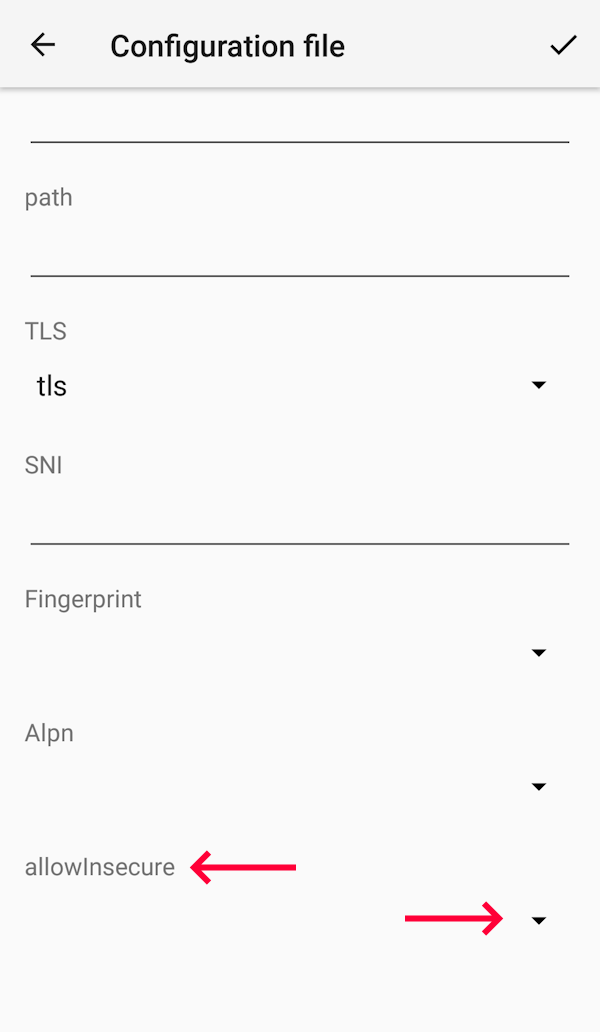
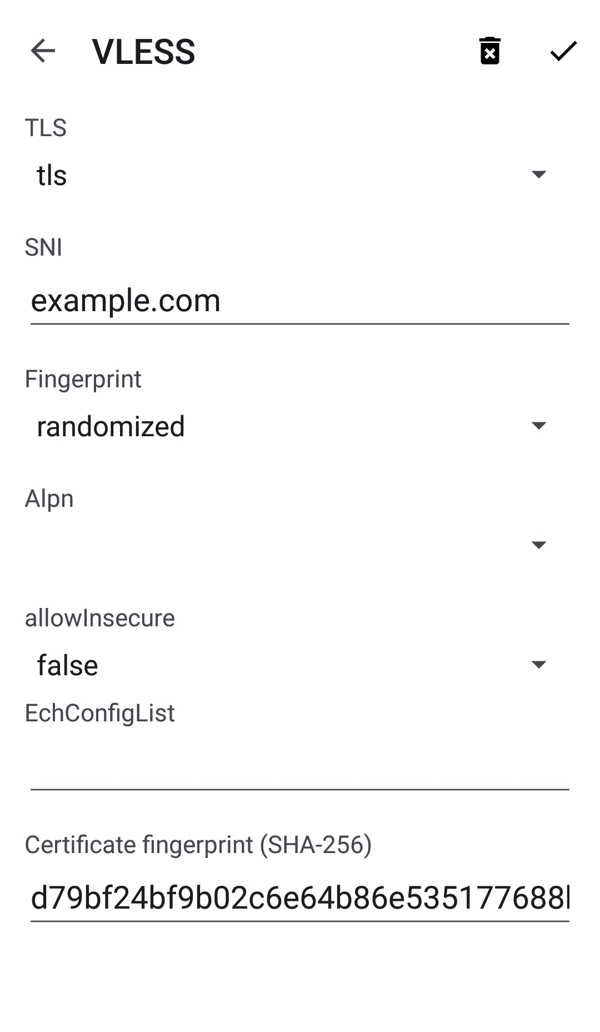
Update the instructions regarding a self-signed certificate
Fix #3

diff --git a/README.md b/README.md
@@ -152,6 +152,8 @@ Additional clients can be added in the same way.
 
 You need to generate the TLS certificate. It will be used to establish an encrypted connection between client and server. There are two ways to do it. You can generate a self-signed certificate, this way you don't need a domain attached to your server. Alternatively, you can obtain a certificate from Let's Encrypt for your domain.
 
+<a name="self_signed_cert"></a>
+
 <details>
 
 <summary>Generate a self-signed certificate.</summary>
@@ -159,13 +161,13 @@ You need to generate the TLS certificate. It will be used to establish an encryp
 Run the following command:
 
 ```bash
-sudo /usr/local/xray/xray tls cert -file /usr/local/etc/xray/my > /dev/null
+sudo /usr/local/xray/xray tls cert -file /usr/local/etc/xray/my -expire 87600h > /dev/null
 ```
 
 Two files will be created:
 
-* `/usr/local/etc/xray/my_cert.pem` is your self-signed certificate.
-* `/usr/local/etc/xray/my_key.pem` is your private key.
+* `/usr/local/etc/xray/my.crt` is your self-signed certificate.
+* `/usr/local/etc/xray/my.key` is your private key.
 
 Now you need to create a JSON object for the certificate and add it to your Xray server configuration.
 
@@ -173,8 +175,8 @@ The certificate object will look like this:
 
 ```json
 {
-    "certificateFile": "/usr/local/etc/xray/my_cert.pem",
-    "keyFile": "/usr/local/etc/xray/my_key.pem"
+    "certificateFile": "/usr/local/etc/xray/my.crt",
+    "keyFile": "/usr/local/etc/xray/my.key"
 }
 ```
 
@@ -208,8 +210,8 @@ Put it into the `inbounds[].streamSettings.tlsSettings.certificates` array in th
                 "tlsSettings": {
                     "certificates": [
                         {
-                            "certificateFile": "/usr/local/etc/xray/my_cert.pem",
-                            "keyFile": "/usr/local/etc/xray/my_key.pem"
+                            "certificateFile": "/usr/local/etc/xray/my.crt",
+                            "keyFile": "/usr/local/etc/xray/my.key"
                         }
                     ]
                 }
@@ -429,11 +431,17 @@ Install [v2rayNG](https://play.google.com/store/apps/details?id=com.v2ray.ang) o
 
    ![](images/xray-android-v2rayng-6.png)
 
-5. If you're using a **self-signed certificate**, open the _allowInsecure_ menu and select _true_.
+5. If you're using a **self-signed certificate**, further configuration of TLS is needed. Skip this step otherwise.
+
+   * Fill in _SNI_ with any domain that is whitelisted in your region.
+
+   * Open the _Fingerprint_ menu and select _randomized_ or another value that works for you.
+
+   * Open the _allowInsecure_ menu and select _false_.
+
+   * Set _Certificate fingerprint (SHA-256)_ to the SHA-256 hash of your self-signed certificate. See [SOCKS proxy configuration](#socks_self_signed) for instructions on how to calculate it.
 
    ![](images/xray-android-v2rayng-7.png)
-
-   ![](images/xray-android-v2rayng-8.png)
 
 6. Save your configuration:
 
@@ -490,13 +498,12 @@ Alternatively, you can configure Xray to work like VPN to route all your traffic
 To configure your Xray client as a SOCKS proxy, use the following configuration.
 
 * Replace `example.com` with your domain.
-
-  If you're using a **self-signed certificate**, replace `example.com` with your server IP. Additionally set `"allowInsecure": true`.
 * Replace `id` with your client `id` from the [server configuration](#step-2---server-configuration).
 * `443` is the port on which the Xray server listens. It's the same port that is used in the [server configuration](#step-2---server-configuration).
 * `1080` is the port on which the local SOCKS proxy server listens. It will accept connections from your apps that are configured to use it.
 
   Apps that want to use the SOCKS proxy need to set `127.0.0.1` as a host, and `1080` as a port.
+* Tweak the `fingerprint` parameter as needed.
 
 ```json
 {
@@ -518,31 +525,85 @@ To configure your Xray client as a SOCKS proxy, use the following configuration.
         {
             "protocol": "vless",
             "settings": {
-                "vnext": [
-                    {
-                        "address": "example.com",
-                        "port": 443,
-                        "users": [
-                            {
-                                "id": "4d6e0338-f67a-4187-bca3-902e232466bc",
-                                "encryption": "none",
-                                "level": 0
-                            }
-                        ]
-                    }
-                ]
+                "address": "example.com",
+                "port": 443,
+                "id": "4d6e0338-f67a-4187-bca3-902e232466bc",
+                "encryption": "none"
             },
             "streamSettings": {
                 "network": "tcp",
                 "security": "tls",
                 "tlsSettings": {
-                    "allowInsecure": false
+                    "fingerprint": "randomized"
                 }
             }
         }
     ]
 }
 ```
+
+<a name="socks_self_signed"></a>
+
+<details>
+
+<summary>SOCKS proxy configuration if you are using a <b>self-signed certificate</b>:</summary>
+
+* Replace `10.0.0.1` with the IP of your server.
+
+* Replace `example.com` with a domain from the whitelist, in other words, the domain that is allowed in your region.
+
+* Replace the value in `pinnedPeerCertSha256` with a hash of your self-signed certificate.
+
+  If you generated the certificate as [described in Step 2](#self_signed_cert), then the command to obtain the hash
+  will look as follows:
+
+  ```shellsession
+  $ /usr/local/xray/xray tls hash --cert /usr/local/etc/xray/my.crt
+  Leaf SHA256:  d79bf24bf9b02c6e64b86e535177688bca6adcbf058f56a9b40e5a186458f193
+  ```
+
+* See the [configuration above](#step-321---socks-proxy) for an explanation of the other parameters.
+
+```json
+{
+    "log": {
+        "loglevel": "warning"
+    },
+    "inbounds": [
+        {
+            "listen": "127.0.0.1",
+            "port": "1080",
+            "protocol": "socks",
+            "settings": {
+                "udp": true,
+                "ip": "127.0.0.1"
+            }
+        }
+    ],
+    "outbounds": [
+        {
+            "protocol": "vless",
+            "settings": {
+                "address": "10.0.0.1",
+                "port": 443,
+                "id": "4d6e0338-f67a-4187-bca3-902e232466bc",
+                "encryption": "none"
+            },
+            "streamSettings": {
+                "network": "tcp",
+                "security": "tls",
+                "tlsSettings": {
+                    "fingerprint": "randomized",
+                    "serverName": "example.com",
[1 lines of base64/hex data omitted]
+                }
+            }
+        }
+    ]
+}
+```
+
+</details>
 
 Run the commands below to put it into the file `xray_config.json` in your HOME directory and run `xray` with that configuration.
 
@@ -1028,7 +1089,7 @@ xray -c config.json
 
 1. Create a new [VLESS configuration in v2rayNG](#step-31---android-client) with the following settings:
 
-   * Fill in _address_ with an IP of your server.
+   * Fill in _address_ with the IP of your server.
    * Put your client ID into the _id_ field. It should correspond to the client ID in the [server configuration](#step-51---xray-reality-server-configuration).
    * Open _flow_ menu and select _xtls-rprx-vision_.
 
